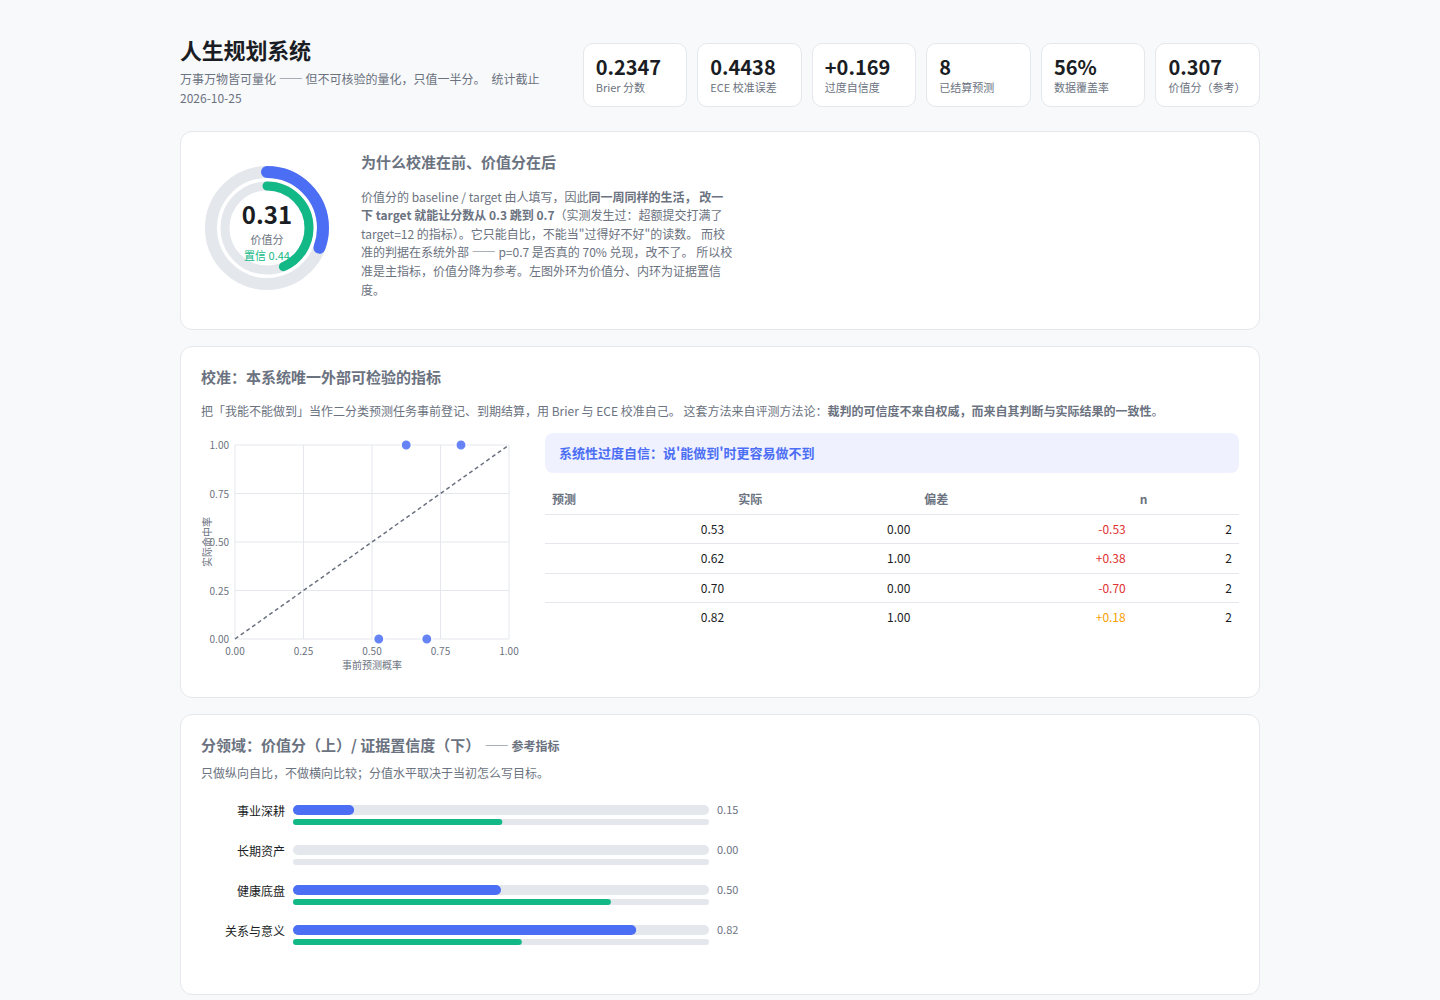
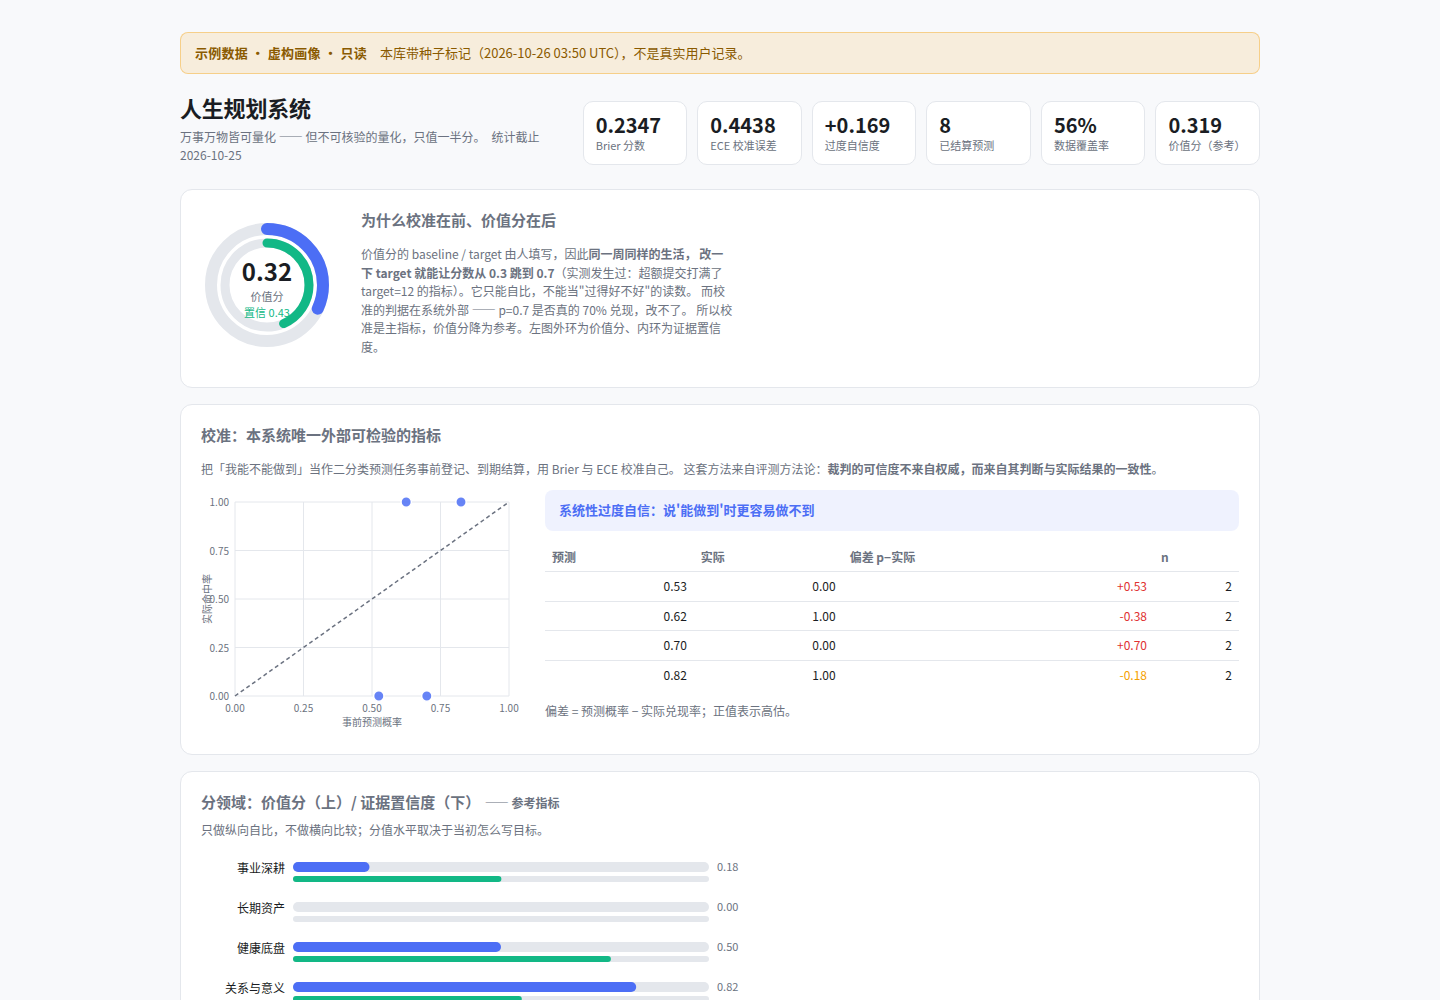
fix: unify the calibration deviation sign on predicted minus actual
- dashboard/report/calibration bins now print mean_p - accuracy, matching overconfidence and the landing hero
- add regression assertions for the +0.70 row and the report wording
- replace the unreadable mobile board screenshot with a native table and link the desktop crop to the full dashboard
- prevent the long board heading from splitting a word and qualify the Python version in the hero fineprint

Changed region(s): [[0.125, 0.031, 0.875, 0.682], [0.125, 0.62, 0.8438, 1.0], [0.75, 0.527, 0.8125, 0.682]]

diff --git a/examples/dashboard.html b/examples/dashboard.html
@@ -3,7 +3,7 @@
 <head>
 <meta charset="utf-8">
 <meta name="viewport" content="width=device-width, initial-scale=1">
-<title>人生规划系统 · 2026-10-22</title>
+<title>人生规划系统 · 2026-10-25</title>
 <style>
   :root {
     --bg:#f8f9fb; --card:#ffffff; --border:#e4e7ec;
@@ -17,6 +17,7 @@
     }
   }
   * { box-sizing:border-box; }
+  svg { max-width:100%; height:auto; }
   body { margin:0; padding:32px 20px 60px; background:var(--bg); color:var(--text);
     font-family:-apple-system,BlinkMacSystemFont,"Segoe UI","PingFang SC","Hiragino Sans GB","Microsoft YaHei",sans-serif;
     line-height:1.55; }
@@ -32,6 +33,10 @@
   .num { font-variant-numeric:tabular-nums; text-align:right; }
   .card { background:var(--card); border:1px solid var(--border); border-radius:12px;
     padding:18px 20px; margin-bottom:16px; }
+  .demo-banner { margin-bottom:16px; padding:10px 14px; border-radius:8px;
+    background:rgba(245,159,0,.12); border:1px solid rgba(245,159,0,.38);
+    color:#8a5a00; font-size:13px; line-height:1.5; }
+  .demo-banner strong { letter-spacing:.02em; }
   .top { display:grid; grid-template-columns:auto 1fr; gap:28px; align-items:center; }
   .kpis { flex:2 1 560px; display:grid; grid-template-columns:repeat(auto-fit,minmax(92px,1fr));
     gap:10px; }
@@ -63,17 +68,23 @@
   .uq-list span { display:block; font-size:12px; margin-top:2px; }
   .foot { text-align:center; color:var(--muted); font-size:11px; margin-top:28px; }
   @media (max-width:720px) {
+    body { padding:20px 12px 40px; }
+    .card { padding:14px; }
     .top,.cal-grid { grid-template-columns:1fr; }
-    .goal-stats { text-align:left; }
+    .goal-stats { text-align:left; gap:12px; }
+    .bar { width:72px; }
+    table { font-size:12px; }
+    th, td { padding:6px 5px; }
   }
 </style>
 </head>
 <body>
 <div class="wrap">
+  <div class="demo-banner" role="status"><strong>示例数据 · 虚构画像 · 只读</strong>　本库带种子标记（2026-10-26 03:52 UTC），不是真实用户记录。</div>
   <header>
     <div class="brand">
       <h1>人生规划系统</h1>
-      <div class="muted small">万事万物皆可量化 —— 但不可核验的量化，只值一半分。　统计截止 2026-10-22</div>
+      <div class="muted small">万事万物皆可量化 —— 但不可核验的量化，只值一半分。　统计截止 2026-10-25</div>
     </div>
     <div class="kpis">
       <div class="kpi"><div class="v">0.2347</div><div class="l">Brier 分数</div></div>
@@ -127,9 +138,10 @@
         <div>
           <div class="verdict">系统性过度自信：说&#x27;能做到&#x27;时更容易做不到</div>
           <table class="mini">
-            <thead><tr><th>预测</th><th>实际</th><th>偏差</th><th>n</th></tr></thead>
-            <tbody><tr><td class="num">0.53</td><td class="num">0.00</td><td class="num" style="color:#e03131">-0.53</td><td class="num">2</td></tr><tr><td class="num">0.62</td><td class="num">1.00</td><td class="num" style="color:#e03131">+0.38</td><td class="num">2</td></tr><tr><td class="num">0.70</td><td class="num">0.00</td><td class="num" style="color:#e03131">-0.70</td><td class="num">2</td></tr><tr><td class="num">0.82</td><td class="num">1.00</td><td class="num" style="color:#f59f00">+0.18</td><td class="num">2</td></tr></tbody>
+            <thead><tr><th>预测</th><th>实际</th><th>偏差 p−实际</th><th>n</th></tr></thead>
+            <tbody><tr><td class="num">0.53</td><td class="num">0.00</td><td class="num" style="color:#e03131">+0.53</td><td class="num">2</td></tr><tr><td class="num">0.62</td><td class="num">1.00</td><td class="num" style="color:#e03131">-0.38</td><td class="num">2</td></tr><tr><td class="num">0.70</td><td class="num">0.00</td><td class="num" style="color:#e03131">+0.70</td><td class="num">2</td></tr><tr><td class="num">0.82</td><td class="num">1.00</td><td class="num" style="color:#f59f00">-0.18</td><td class="num">2</td></tr></tbody>
           </table>
+          <p class="muted small">偏差 = 预测概率 − 实际兑现率；正值表示高估。</p>
         </div>
       </div>
   </section>
@@ -443,7 +455,7 @@
     <section class="card">
       <h3>待结算预测（2）</h3>
       <table class="mini"><thead><tr><th>ID</th><th>陈述</th><th>p</th><th>到期</th></tr></thead>
-      <tbody><tr><td class="num">#9</td><td>20 天内发布 2 篇新稿</td><td class="num">0.75</td><td class="muted">2026-11-11</td></tr><tr><td class="num">#10</td><td>45 天内拿到 offer</td><td class="num">0.45</td><td class="muted">2026-12-06</td></tr></tbody></table>
+      <tbody><tr><td class="num">#9</td><td>20 天内发布 2 篇新稿</td><td class="num">0.75</td><td class="muted">2026-11-14</td></tr><tr><td class="num">#10</td><td>45 天内拿到 offer</td><td class="num">0.45</td><td class="muted">2026-12-09</td></tr></tbody></table>
     </section>
   
     <section class="card">

diff --git a/landing/index.html b/landing/index.html
@@ -4,10 +4,10 @@
   <meta charset="UTF-8" />
   <meta name="viewport" content="width=device-width, initial-scale=1.0, viewport-fit=cover" />
   <title>lifeplan · 计划会骗你，结算不会</title>
-  <meta name="description" content="把目标变成可核验的指标，把「我能不能做到」变成事前登记、到期结算的预测。本地优先，零依赖，单文件看板。" />
+  <meta name="description" content="把目标变成可核验的指标，把「我能不能做到」变成事前登记、到期结算的预测。本地优先，Python 3.11+ 零依赖，单文件看板。" />
   <meta name="theme-color" content="#eef0ea" />
   <meta property="og:title" content="lifeplan · 计划会骗你，结算不会" />
-  <meta property="og:description" content="把目标变成可核验的指标，把「我能不能做到」变成事前登记、到期结算的预测。本地优先，零依赖。" />
+  <meta property="og:description" content="把目标变成可核验的指标，把「我能不能做到」变成事前登记、到期结算的预测。本地优先，Python 3.11+ 零依赖。" />
   <meta property="og:type" content="website" />
   <meta property="og:url" content="https://aidless.github.io/lifeplanner/" />
   <meta property="og:image" content="https://aidless.github.io/lifeplanner/assets/og.png" />
@@ -49,7 +49,7 @@
           <a class="btn" href="demo/dashboard.html" target="_blank" rel="noopener">看示例看板（虚构数据）</a>
           <a class="btn btn-ghost" href="#start">3 分钟跑起来</a>
         </div>
-        <p class="fineprint">本地优先 · 零依赖 · 无账号 · 示例数据为虚构画像</p>
+        <p class="fineprint">本地优先 · 3.11+ 零依赖 · 无账号 · 虚构示例</p>
       </div>
 
       <aside class="sheet" id="settlement" data-mode="after" aria-label="示例结算单">
@@ -182,13 +182,36 @@
 
     <section class="band" id="board">
       <div class="section-head section-head--stack">
-        <h2>看板不是仪表盘，是一张账单。</h2>
+        <h2>看板不是<span class="nowrap">仪表盘</span>，是一张账单。</h2>
         <p>看板先给你校准，再给你自我评分。前者由到期结算决定，改不了；后者由 baseline / target 决定，可以改。</p>
       </div>
-      <figure class="shot">
-        <img src="assets/dashboard-proof.png" width="2880" height="1550" alt="lifeplan 示例看板的校准区：顶部是 Brier、ECE、过度自信度，下面是可靠性曲线和分箱结算表" />
+      <figure class="shot shot-desktop">
+        <a class="shot-link" href="demo/dashboard.html" target="_blank" rel="noopener">
+          <img src="assets/dashboard-proof.png" width="2880" height="1550" alt="lifeplan 示例看板的校准区：顶部是 Brier、ECE、过度自信度，下面是可靠性曲线和分箱结算表" />
+          <span class="shot-open">打开完整看板 ↗</span>
+        </a>
         <figcaption>示例数据（虚构画像）· 校准区 2x 截取</figcaption>
       </figure>
+      <div class="proof-mobile">
+        <div class="proof-kpis">
+          <span><b>0.2347</b>Brier</span>
+          <span><b>0.4438</b>ECE</span>
+          <span><b>+0.169</b>过度自信</span>
+          <span><b>8</b>已结算</span>
+        </div>
+        <table>
+          <caption>示例看板 · 四个预测分箱</caption>
+          <thead><tr><th scope="col">预测</th><th scope="col">实际</th><th scope="col">偏差 p−实际</th><th scope="col">n</th></tr></thead>
+          <tbody>
+            <tr><td>0.53</td><td>0.00</td><td class="over">+0.53</td><td>2</td></tr>
+            <tr><td>0.62</td><td>1.00</td><td class="under">−0.38</td><td>2</td></tr>
+            <tr><td>0.70</td><td>0.00</td><td class="over">+0.70</td><td>2</td></tr>
+            <tr><td>0.82</td><td>1.00</td><td class="under">−0.18</td><td>2</td></tr>
+          </tbody>
+        </table>
+        <a class="proof-link" href="demo/dashboard.html" target="_blank" rel="noopener">打开完整看板 ↗</a>
+        <p class="proof-note">示例数据（虚构画像）· 与看板同源</p>
+      </div>
       <dl class="notes">
         <div><dt>校准在前</dt><dd>Brier、ECE、过度自信度是主指标；它们由到期结算决定，不由你今天的心情决定。</dd></div>
         <div><dt>价值分只作参考</dt><dd>baseline 和 target 由人填写，改一下 target 就能改分数，所以它只可纵向自比。</dd></div>

diff --git a/landing/styles.css b/landing/styles.css
@@ -48,6 +48,8 @@ code, .mono {
   font-variant-numeric: tabular-nums;
 }
 
+.nowrap { white-space: nowrap; }
+
 .sr-only {
   position: absolute;
   width: 1px;
@@ -209,6 +211,7 @@ h1 {
 
 .fineprint {
   margin: 0;
+  text-wrap: balance;
   font-size: 12px;
   letter-spacing: 0.02em;
   color: var(--muted);
@@ -501,6 +504,42 @@ h2 {
   border: 1px solid var(--rule-strong);
   box-shadow: var(--shadow);
 }
+
+.shot-link { display: block; position: relative; text-decoration: none; }
+.shot-link img { display: block; width: 100%; height: auto; }
+.shot-link:hover .shot-open { background: var(--blue-ink); }
+.shot-open {
+  position: absolute;
+  right: 12px;
+  bottom: 12px;
+  padding: 8px 12px;
+  background: var(--ink);
+  color: var(--paper-2);
+  font-size: 12px;
+  letter-spacing: 0.02em;
+}
+.proof-mobile { display: none; }
+.proof-kpis {
+  display: flex;
+  flex-wrap: wrap;
+  gap: 8px 16px;
+  padding: 14px 0;
+  border-top: 2px solid var(--ink);
+  border-bottom: 1px solid var(--rule);
+  font-family: var(--mono);
+  font-size: 11px;
+  color: var(--muted);
+}
+.proof-kpis b { margin-right: 5px; color: var(--ink); font-size: 15px; }
+.proof-mobile table { width: 100%; border-collapse: collapse; margin: 14px 0; font-size: 13px; }
+.proof-mobile caption { padding-bottom: 8px; text-align: left; font-family: var(--mono); font-size: 11px; color: var(--muted); }
+.proof-mobile th { padding: 6px 4px; border-bottom: 1px solid var(--ink); text-align: left; font-family: var(--mono); font-size: 11px; font-weight: 500; color: var(--muted); }
+.proof-mobile td { padding: 8px 4px; border-bottom: 1px solid var(--rule); font-variant-numeric: tabular-nums; }
+.proof-mobile .over { color: var(--red); font-weight: 700; }
+.proof-mobile .under { color: var(--blue-ink); }
+.proof-link { display: inline-block; margin-top: 8px; color: var(--ink); font-size: 14px; text-underline-offset: 4px; }
+.proof-note { margin: 10px 0 0; font-size: 12px; color: var(--muted); }
+
 .shot img { display: block; width: 100%; height: auto; }
 .shot figcaption {
   padding: 8px 4px 2px;
@@ -695,6 +734,8 @@ h2 {
   .notes > div { grid-template-columns: 1fr; gap: 6px; }
   .ledger th { width: 96px; padding-right: 12px; }
   .shot { padding: 5px; }
+  .shot-desktop { display: none; }
+  .proof-mobile { display: block; }
   .terminal pre { white-space: pre-wrap; overflow-wrap: anywhere; }
   .sheet { padding: 20px; }
   .sheet-title { font-size: 21px; }

diff --git a/landing/demo/dashboard.html b/landing/demo/dashboard.html
@@ -80,7 +80,7 @@
 </head>
 <body>
 <div class="wrap">
-  <div class="demo-banner" role="status"><strong>示例数据 · 虚构画像 · 只读</strong>　本库带种子标记（2026-10-26 03:40 UTC），不是真实用户记录。</div>
+  <div class="demo-banner" role="status"><strong>示例数据 · 虚构画像 · 只读</strong>　本库带种子标记（2026-10-26 03:50 UTC），不是真实用户记录。</div>
   <header>
     <div class="brand">
       <h1>人生规划系统</h1>
@@ -138,9 +138,10 @@
         <div>
           <div class="verdict">系统性过度自信：说&#x27;能做到&#x27;时更容易做不到</div>
           <table class="mini">
-            <thead><tr><th>预测</th><th>实际</th><th>偏差</th><th>n</th></tr></thead>
-            <tbody><tr><td class="num">0.53</td><td class="num">0.00</td><td class="num" style="color:#e03131">-0.53</td><td class="num">2</td></tr><tr><td class="num">0.62</td><td class="num">1.00</td><td class="num" style="color:#e03131">+0.38</td><td class="num">2</td></tr><tr><td class="num">0.70</td><td class="num">0.00</td><td class="num" style="color:#e03131">-0.70</td><td class="num">2</td></tr><tr><td class="num">0.82</td><td class="num">1.00</td><td class="num" style="color:#f59f00">+0.18</td><td class="num">2</td></tr></tbody>
+            <thead><tr><th>预测</th><th>实际</th><th>偏差 p−实际</th><th>n</th></tr></thead>
+            <tbody><tr><td class="num">0.53</td><td class="num">0.00</td><td class="num" style="color:#e03131">+0.53</td><td class="num">2</td></tr><tr><td class="num">0.62</td><td class="num">1.00</td><td class="num" style="color:#e03131">-0.38</td><td class="num">2</td></tr><tr><td class="num">0.70</td><td class="num">0.00</td><td class="num" style="color:#e03131">+0.70</td><td class="num">2</td></tr><tr><td class="num">0.82</td><td class="num">1.00</td><td class="num" style="color:#f59f00">-0.18</td><td class="num">2</td></tr></tbody>
           </table>
+          <p class="muted small">偏差 = 预测概率 − 实际兑现率；正值表示高估。</p>
         </div>
       </div>
   </section>

diff --git a/lifeplan/dashboard.py b/lifeplan/dashboard.py
@@ -247,7 +247,7 @@ def render_dashboard(conn, as_of: str | None = None) -> str:
         for b in cal.bins:
             if b.count == 0 or b.mean_p is None:
                 continue
-            gap = b.accuracy - b.mean_p
+            gap = b.mean_p - b.accuracy
             color = PALETTE["good"] if abs(gap) < 0.1 else (PALETTE["warn"] if abs(gap) < 0.25 else PALETTE["bad"])
             cal_rows.append(
                 f'<tr><td class="num">{b.mean_p:.2f}</td><td class="num">{b.accuracy:.2f}</td>'
@@ -259,9 +259,10 @@ def render_dashboard(conn, as_of: str | None = None) -> str:
         <div>
           <div class="verdict">{_esc(cal.verdict)}</div>
           <table class="mini">
-            <thead><tr><th>预测</th><th>实际</th><th>偏差</th><th>n</th></tr></thead>
+            <thead><tr><th>预测</th><th>实际</th><th>偏差 p−实际</th><th>n</th></tr></thead>
             <tbody>{''.join(cal_rows) or '<tr><td colspan="4" class="muted">无数据</td></tr>'}</tbody>
           </table>
+          <p class="muted small">偏差 = 预测概率 − 实际兑现率；正值表示高估。</p>
         </div>
       </div>"""
     else:

diff --git a/tests/test_e2e.py b/tests/test_e2e.py
@@ -53,6 +53,7 @@ class TestEndToEnd(unittest.TestCase):
         self.assertIn("人生规划系统", text)
         self.assertIn("证据置信度", text)
         self.assertIn("不可量化登记", text)
+        self.assertIn("偏差 = 预测 − 实际，为正说明偏乐观", text)
         conn.close()
 
     def test_dashboard_renders_offline(self):
@@ -62,6 +63,13 @@ class TestEndToEnd(unittest.TestCase):
         html = render_dashboard(conn)
         self.assertIn("<svg", html)
         self.assertIn("示例数据 · 虚构画像 · 只读", html)
+        self.assertRegex(
+            html,
+            r'<td class="num">0\.70</td><td class="num">0\.00</td>'
+            r'<td class="num" style="color:[^"]+">\+0\.70</td>',
+            "分箱偏差必须与过度自信度同向（预测 − 实际）",
+        )
+        self.assertIn(">+0.169<", html)
         self.assertFalse(
             re.search(r'(src|href)="https?://', html),
             "看板不得引用任何外部资源",

diff --git a/lifeplan/report.py b/lifeplan/report.py
@@ -94,12 +94,12 @@ def _calibration_section(add, cal) -> None:
     # 可靠曲线（分箱）
     filled = [b for b in cal.bins if b.count > 0 and b.mean_p is not None]
     if filled:
-        add("**可靠性分箱**（预测区间 → 实际命中率；偏差为正说明偏保守，为负说明偏乐观）：")
+        add("**可靠性分箱**（预测区间 → 实际命中率；偏差 = 预测 − 实际，为正说明偏乐观，为负说明偏保守）：")
         add("")
         add("| 预测区间 | n | 平均预测 | 实际命中 | 偏差 |")
         add("|---|---|---|---|---|")
         for b in filled:
-            gap = b.accuracy - b.mean_p
+            gap = b.mean_p - b.accuracy
             add(f"| {b.lower:.1f}–{b.upper:.1f} | {b.count} | {b.mean_p:.2f} | "
                 f"{b.accuracy:.2f} | {gap:+.2f} |")
         add("")

diff --git a/lifeplan/calibration.py b/lifeplan/calibration.py
@@ -55,7 +55,7 @@ class Bin:
     count: int
     mean_p: float
     accuracy: float
-    gap: float  # accuracy - mean_p, 正值代表过于保守
+    gap: float  # mean_p - accuracy, 正值代表过度自信
 
 
 @dataclass
@@ -158,7 +158,7 @@ def compute_calibration(predictions: list[Prediction]) -> CalibrationReport:
         if group:
             mp = sum(p.p_hit for p in group) / len(group)
             ac = sum(p.outcome for p in group) / len(group)
-            gap = ac - mp
+            gap = mp - ac
             ece += (len(group) / len(resolved)) * abs(gap)
             mce = max(mce, abs(gap))
         else:

diff --git a/examples/report.md b/examples/report.md
@@ -1,6 +1,6 @@
 # 人生规划系统 · 周报
 
-**统计截止**：2026-10-22　|　**目标 7 个**　**指标 16 个**　|　**数据覆盖率 56%**　|　**已结算预测 8 条**
+**统计截止**：2026-10-25　|　**目标 7 个**　**指标 16 个**　|　**数据覆盖率 56%**　|　**已结算预测 8 条**
 
 ## 一、校准摘要（主指标）
 
@@ -19,14 +19,14 @@
 | 平均预测概率 | 0.669 | 「我能做到」时的平均把握 |
 | 实际命中率 | 0.500 | 说到做到的频率 |
 
-**可靠性分箱**（预测区间 → 实际命中率；偏差为正说明偏保守，为负说明偏乐观）：
+**可靠性分箱**（预测区间 → 实际命中率；偏差 = 预测 − 实际，为正说明偏乐观，为负说明偏保守）：
 
 | 预测区间 | n | 平均预测 | 实际命中 | 偏差 |
 |---|---|---|---|---|
-| 0.5–0.6 | 2 | 0.53 | 0.00 | -0.53 |
-| 0.6–0.7 | 2 | 0.62 | 1.00 | +0.38 |
-| 0.7–0.8 | 2 | 0.70 | 0.00 | -0.70 |
-| 0.8–0.9 | 2 | 0.82 | 1.00 | +0.18 |
+| 0.5–0.6 | 2 | 0.53 | 0.00 | +0.53 |
+| 0.6–0.7 | 2 | 0.62 | 1.00 | -0.38 |
+| 0.7–0.8 | 2 | 0.70 | 0.00 | +0.70 |
+| 0.8–0.9 | 2 | 0.82 | 1.00 | -0.18 |
 
 **分领域过度自信度**（正值越高越容易高估自己）：
 
@@ -159,4 +159,4 @@
 
 ---
 
-*本报告由 lifeplan 自动生成于 2026-10-22。所有数字来自本地 SQLite 数据库，无任何外部上传。*
+*本报告由 lifeplan 自动生成于 2026-10-25。所有数字来自本地 SQLite 数据库，无任何外部上传。*
